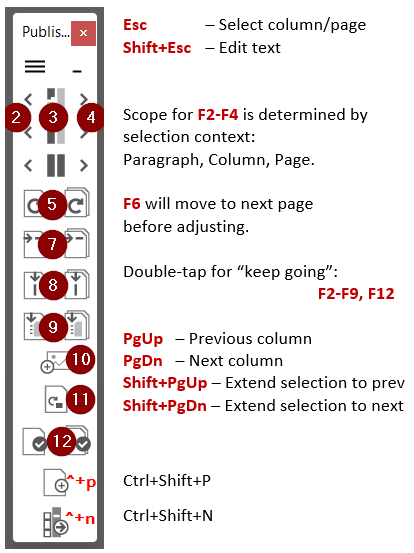
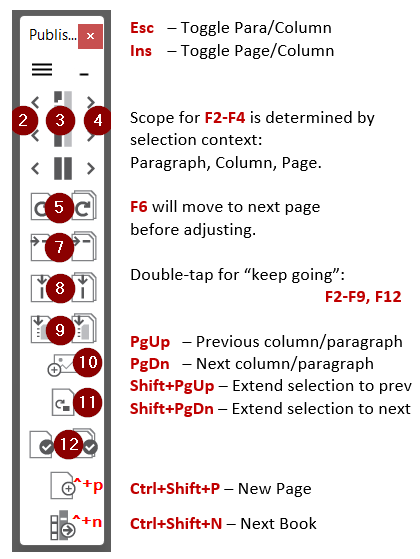
0.0.5

Changed region(s): [[0.0, 0.0, 0.9855, 1.0], [0.5507, 0.8608, 0.7536, 0.8915], [0.1739, 0.123, 0.2029, 0.1537]]

diff --git a/TogglePageCol.jsx b/TogglePageCol.jsx
@@ -5,6 +5,31 @@ app.doScript(main, ScriptLanguage.JAVASCRIPT, undefined, UndoModes.ENTIRE_SCRIPT
 
 // Main function: 
 function main() {
-	alert("This has not yet been implemented.");
+	// If there had been any extended selection, wipe it out.
+	selEnd = getPersistentNum("pac:selEnd");
+	if (selEnd) {
+		unhighlightRange(getPersistentNum("pac:selStart"), selEnd);
+		selEnd = setPersistentNum("pac:selEnd", 0);
+		return;
+	}
+	if (colCt() == 1) {
+		return;
+	}
+	
+	curFrame = getCurColFrame();
+	if (curFrame == null) {  // No column body frame selected, so select last col
+		curFrame = getBodyFrame(app.activeWindow.activePage, colCt());
+    }
+	app.activeWindow.select(curFrame);
+	colIdx = getFrameIdx(curFrame);
+	colNum = colByIdx(colIdx);
+	otherColNum = 3 - colNum;
+	otherColIdx = colIdx - colNum + otherColNum;
+	hiliteCol(curFrame);
+	hiliteCol(getBodyFrame(curFrame.parentPage, otherColNum));
+	setPersistentNum("pac:selEnd", colIdx);
+	setPersistentNum("pac:selStart", otherColIdx);
+	
+
 }
 

diff --git a/PrevPara.jsx b/PrevPara.jsx
@@ -1,0 +1,29 @@
+// Run script in a way that a single Undo step undoes all its changes
+// app.doScript(main, ScriptLanguage.JAVASCRIPT, undefined, UndoModes.ENTIRE_SCRIPT, "PrevPara"); 
+main();
+
+#include "inc/PACmd.jsxinc"
+
+// Main function: 
+function main() {
+	
+	p = app.selection[0].insertionPoints[0];
+	nextp = p.paragraphs.previousItem(p.paragraphs[0]);
+	if (nextp == null) {
+		return; // end of story
+	}
+	nextIp = nextp.insertionPoints[0];
+	app.activeWindow.activePage = nextIp.parentTextFrames[0].parentPage;
+	app.activeWindow.select(nextp);
+
+	// If there had been any extended selection, wipe it out.
+	selEnd = getPersistentNum("pac:selEnd");
+	if (selEnd) {
+		unhighlightRange(getPersistentNum("pac:selStart"), selEnd);
+		selEnd = setPersistentNum("pac:selEnd", 0);
+	}
+
+	$.sleep(100);
+	app.activeWindow.select(nextIp);
+}
+

diff --git a/NextPara.jsx b/NextPara.jsx
@@ -1,0 +1,29 @@
+// Run script in a way that a single Undo step undoes all its changes
+// app.doScript(main, ScriptLanguage.JAVASCRIPT, undefined, UndoModes.ENTIRE_SCRIPT, "NextPara"); 
+main();
+
+#include "inc/PACmd.jsxinc"
+
+// Main function: 
+function main() {
+	
+	p = app.selection[0].insertionPoints[0];
+	nextp = p.paragraphs.nextItem(p.paragraphs[0]);
+	if (nextp == null) {
+		return; // end of story
+	}
+	nextIp = nextp.insertionPoints[0];
+	app.activeWindow.activePage = nextIp.parentTextFrames[0].parentPage;
+	app.activeWindow.select(nextp);
+
+	// If there had been any extended selection, wipe it out.
+	selEnd = getPersistentNum("pac:selEnd");
+	if (selEnd) {
+		unhighlightRange(getPersistentNum("pac:selStart"), selEnd);
+		selEnd = setPersistentNum("pac:selEnd", 0);
+	}
+
+	$.sleep(100);
+	app.activeWindow.select(nextIp);
+}
+

diff --git a/EditText.jsx b/EditText.jsx
@@ -21,6 +21,30 @@ function main() {
 		selFrame = getBodyFrame(app.activeWindow.activePage, 1);
 	}
 
-	app.activeWindow.select(selFrame.lines.middleItem());
+	//app.activeWindow.select(selFrame.paragraphs.middleItem());
+	
+	
+	
+	
+	
+		// p = app.selection[0].insertionPoints[0];
+	nextp = selFrame.paragraphs.middleItem();
+	// if (nextp == null) {
+		// return; // end of story
+	// }
+	nextIp = nextp.insertionPoints[0];
+	app.activeWindow.activePage = nextIp.parentTextFrames[0].parentPage;
+	app.activeWindow.select(nextp);
+
+	// If there had been any extended selection, wipe it out.
+	selEnd = getPersistentNum("pac:selEnd");
+	if (selEnd) {
+		unhighlightRange(getPersistentNum("pac:selStart"), selEnd);
+		selEnd = setPersistentNum("pac:selEnd", 0);
+	}
+
+	$.sleep(100);
+	app.activeWindow.select(nextIp);
+
 }
 
